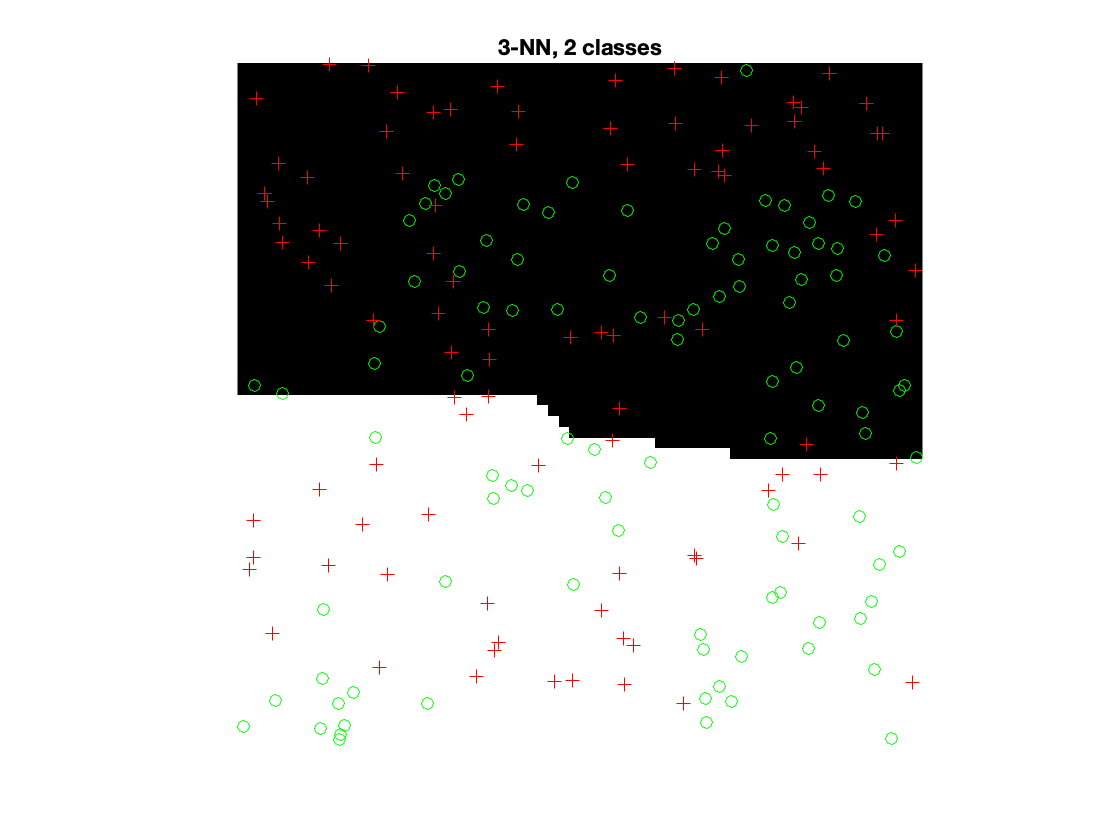
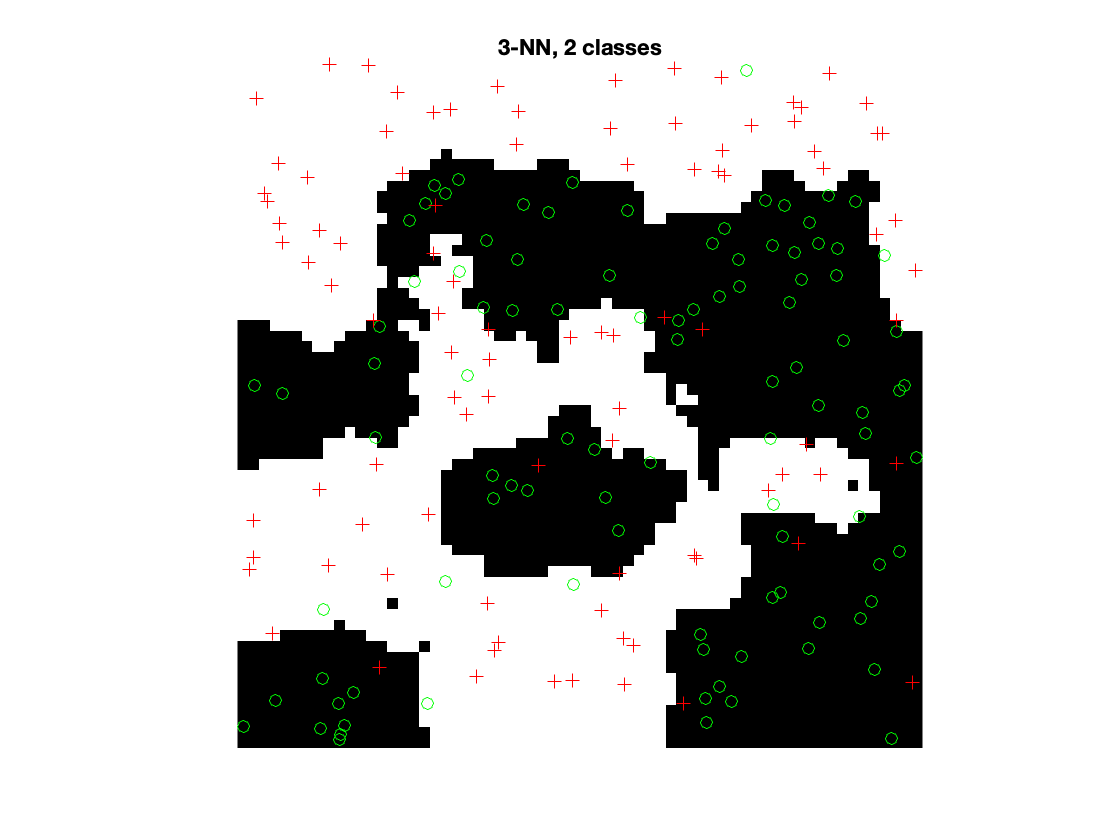
t10, 11, 12 + correction of 7

Changed region(s): [[0.1875, 0.0619, 0.8438, 0.8976], [0.1875, 0.7429, 0.4062, 0.8976], [0.3438, 0.7119, 0.375, 0.7429]]

diff --git a/Assignment 1/Lisa/Task_12/script12.m b/Assignment 1/Lisa/Task_12/script12.m
@@ -1,0 +1,133 @@
+data = load('kmeans1.mat').kmeans1;
+cluster_centers = kmeans(data, 8, 1);
+plot_clusters(data, cluster_centers);
+close;
+
+
+data = load('checkerboard.mat').checkerboard;
+n_runs = 20;
+k = 100;
+
+[mean_q_err, std_q_err, q_err] = n_runs_kmeans(data, k, n_runs, 0);
+[mean_q_err_plus, std_q_err_plus, q_err_plus] = n_runs_kmeans(data, k, n_runs, 1);
+[h, p] = ttest2(q_err, q_err_plus);
+[ mean_q_err, std_q_err ]
+[ mean_q_err_plus, std_q_err_plus ]
+[h, p]
+
+
+function [mean_q_err, std_q_err, q_err] = n_runs_kmeans(data, k, n_runs, kmeans_plus)
+    q_err = zeros(1, n_runs);
+    for n_run = 1:n_runs
+        n_run
+        cluster_centers = kmeans(data, k, kmeans_plus);
+        q_err(n_run) = quantization_error(data, cluster_centers);
+    end
+    
+    mean_q_err = mean(q_err);
+    std_q_err = std(q_err);
+end
+
+function plot_clusters(data, cluster_centers)
+    distances = zeros(1, length(cluster_centers) );
+    cluster_idx_data = zeros(1, length(data));
+    cluster_idx_data = assign_clusters(cluster_centers, data, cluster_idx_data, distances);
+    for cluster_idx = 1:length(cluster_centers)
+        txt = ['Class ',num2str(cluster_idx) ];
+        cluster_data = data(cluster_idx_data == cluster_idx,: );
+        scatter( cluster_data(:,1), cluster_data(:, 2), 'fill', 'DisplayName',txt );
+        xlabel('Feature 1');
+        ylabel('Feature 2');
+        hold on
+
+    end
+    legend show
+end
+
+function centroids =  kmeans(data, k, kmeans_extension)
+    [ data, centroids ] = get_centroids(data, k, kmeans_extension);
+    prev_centroids = zeros( length(centroids), length( centroids(1,:) ) ) ;
+    distances = zeros(1, length(centroids) );
+    cluster_idx_data = zeros(1, length(data));
+    runs = 0;
+    while prev_centroids ~= centroids
+        runs = runs + 1;
+        prev_centroids = centroids;
+        cluster_idx_data = assign_clusters(centroids, data, cluster_idx_data, distances);
+        for centr_idx = 1:length(centroids)
+            centroid_data = data(cluster_idx_data == centr_idx,: );
+            centroids(centr_idx,:) = mean(centroid_data);
+        end
+    end
+end
+
+function cluster_idx_data = assign_clusters(centroids, data, cluster_idx_data, distances)
+    for data_idx = 1:length(data)
+        for centr_idx = 1:length(centroids)
+            distances(centr_idx) = pdist([centroids(centr_idx, :); data(data_idx, :)]);
+        end
+        [~, centr_idx] = min(distances);
+        cluster_idx_data(data_idx) = centr_idx;
+    end
+end
+
+function [data, centroids] = get_centroids(data, k, kmeans_extension)
+    if kmeans_extension == 1
+        [ data, centroids ] = kmeans_plus_init(data, k);
+    else
+        centroids_indices = datasample( [ 1:length(data) ], k );
+        centroids = data(centroids_indices, :);
+        data(centroids_indices,:) = [];
+    end
+end
+
+function [data, centroids] = kmeans_plus_init(data, k)
+    for i = 1:k
+       if i == 1
+           new_centroid_idx = datasample( [ 1:length(data) ], 1);
+           centroids = data(new_centroid_idx, :); 
+           data(new_centroid_idx, :) = [];
+       else
+           all_dists = zeros(1, length(data) );
+           for data_idx = 1:length(data)
+               distances = zeros(1, length(centroids) );
+               if length(centroids(1,:)) ~= 1
+                   for centr_idx = 1:length(centroids)
+                       if i <= 2
+                           distances(centr_idx) = pdist([centroids; data(data_idx, :)] );
+                       else
+                           distances(centr_idx) = pdist([centroids(centr_idx, :); data(data_idx, :) ] );
+                       end
+                   end
+                   [min_dist, ~] = min(distances);
+               else
+                   min_dist = pdist([centroids; data(data_idx, :) ] );
+               end
+               all_dists(data_idx) = min_dist;
+           end
+           sum_dists = sum(all_dists.^ 2);
+           probs = all_dists / sum_dists;
+           [~, max_idx] = max(probs);
+           centroids = [centroids; data(max_idx,:) ];
+           data(max_idx, :) = [];
+       end
+    end
+end
+
+% only for cases where k > 1
+function q_err = quantization_error(data, centroids)
+    all_dists = zeros(1, length(data));
+    for data_idx = 1:length(data)
+       distances = zeros(1, length(centroids) );
+       for centr_idx = 1:length(centroids)
+           distances(centr_idx) = pdist([centroids(centr_idx, :); data(data_idx, :) ] );
+       end
+       [min_dist, ~] = min(distances);
+       all_dists(data_idx) = min_dist;
+    end
+    q_err = sum(all_dists.^ 2);
+end
+
+
+   
+

diff --git a/Assignment 1/Lisa/Task_10/script10_p1.m b/Assignment 1/Lisa/Task_10/script10_p1.m
@@ -1,9 +1,7 @@
 I = imread('cameraman.tif');
-t = graythresh(I);
-BW = imbinarize(I,t);
-imshow(BW);
+imshow(I);
 
-BW1 = edge(BW,'Canny');
+BW1 = edge(I,'Canny');
 imshow(BW1);
 close
 [H,T,R] = hough(BW1);
@@ -13,28 +11,40 @@ imshow(imadjust(H),'XData',T,'YData',R,...
 title('Hough transform of gantrycrane.png');
 xlabel('\theta'), ylabel('\rho');
 close
- 
-peaks = houghpeaks(H, 156); % is already sorted
-P_5 = peaks(1:5,:); 
+
+t = graythresh(H);
+t = t * max(max(H));
+
+for r_idx = 1:length(H)
+    for c_idx = 1:length(H(1,:))
+        if H(r_idx, c_idx) <= t
+            H(r_idx, c_idx) = 0;
+        end    
+    end
+end
+
+peaks = houghpeaks(H, 5); % is already sorted
 
 imshow(H,[],'XData',T,'YData',R,'InitialMagnification','fit');
 xlabel('\theta'), ylabel('\rho');
 axis on, axis normal, hold on; 
-plot(T(P_5(:,2)),R(P_5(:,1)),'s','color','red');
+plot(T(peaks(:,2)),R(peaks(:,1)),'s','color','red');
 close
 
-lined_img = myhoughlines(I, R(P_5(2,1)), T(P_5(2, 2)));
-%imshow(lined_img);
+myhoughlines(I, R(peaks(2,1)), T(peaks(2, 2)));
 
-function new_img = myhoughlines(img, rho, theta)
-    x_coor = rho * cosd(theta);
-    y_coor = rho * sind(theta);
-    line_slope = -1/tand(theta); % -1/perpendicular slope
-    b = y_coor - x_coor * line_slope;
-    x = [1:length(img(1,:))];
-    y = round(line_slope * x + b);
-    imshow(img)
+function myhoughlines(image, rho, theta)
+    figure
+    imshow(image)
     hold on
-    plot([x(1) x(length(x))],[y(length(y)) y(1)],'Color','r','LineWidth',2)      
+    if theta ~= 0
+        x = 1:size(image,1);
+        y = -(cosd(theta)/sind(theta))*x + (rho/sind(theta));
+    else
+        x = rho * ones(size(image,1),1);
+        y = 1:size(image,1);
+    end
+    plot(x,y,'LineWidth',2)
+    axis on
 end
 

diff --git a/Assignment 1/Lisa/Task7/script7.m b/Assignment 1/Lisa/Task7/script7.m
@@ -1,19 +1,18 @@
 data_A = load('data_lvq_A.mat').('matA');
 data_B = load('data_lvq_B.mat').('matB');
 
-data_A_f1 = data_A(:,1) / var(data_A(:,1));
-data_A_f2 = data_A(:,2) / var(data_A(:,2));
-data_B_f1 = data_B(:,1) / var(data_B(:,1));
-data_B_f2 = data_B(:,2) / var(data_B(:,2));
+data_A_f1 = data_A(:,1);
+data_A_f2 = data_A(:,2);
+data_B_f1 = data_B(:,1);
+data_B_f2 = data_B(:,2);
 
-scatter(data_A_f1,data_A_f2,'filled');
+scatter(data_A_f1,data_A_f2);
 hold on
-scatter(data_B_f1,data_B_f2, 'filled');
+scatter(data_B_f1,data_B_f2);
 
 xlabel('Feature 1'); 
 ylabel('Feature 2');
 legend('A', 'B')
-hold on
 
 
 %%% LVQ
@@ -24,9 +23,8 @@ data = [data_A; data_B];
 data_labels = zeros(1, length(data));
 data_labels(length(data_A) + 1: length(data_labels)) = 1;
 
-
 % prototype initialisation
-n_class_A = 1;
+n_class_A = 2;
 n_class_B = 1;
 [init_protos, label_protos] = init(n_class_A, n_class_B, data_A, data_B);
 % LVQ
@@ -37,9 +35,10 @@ scatter(prototypes(:,1), prototypes(:,2), 'filled')
 legend('A', 'B', 'Prototypes')
 
 % plot train error
-%plot(train_error)
-%xlabel('Number of eopchs'); 
-%ylabel('Training error');
+% close
+% plot(train_error)
+% xlabel('Number of eopchs'); 
+% ylabel('Training error');
 
 % kfold cv 
 

diff --git a/Assignment 1/Lisa/Task_10/script10_p3.m b/Assignment 1/Lisa/Task_10/script10_p3.m
@@ -24,9 +24,9 @@ xlabel('\theta'), ylabel('\rho');
 close
 
 black_img = zeros(50, 50);
-black_img(25,25) = 255;
+black_img(25,23) = 255;
 black_img(25,26) = 255;
-black_img(25, 27) = 255;
+black_img(25, 29) = 255;
 imshow(black_img);
 
 [H,T,R] = hough(black_img);
@@ -46,7 +46,7 @@ axis on, axis normal, hold on;
 plot(T(max_peak(2)),R(max_peak(1)),'s','color','red');
 close
 
-lines = houghlines(black_img,T,R,peaks);
+lines = houghlines(black_img,T,R,peaks, 'FillGap',3,'MinLength',1);
 imshow(black_img), hold on
 max_len = 0;
 lines
@@ -54,6 +54,6 @@ lines
 for k = 1:length(lines)
    xy = [lines(k).point1; lines(k).point2];
    xy
-   plot(xy(:,1),xy(:,2),'LineWidth',10,'Color','red');
+   plot(xy(:,1),xy(:,2),'LineWidth',1,'Color','red');
 end
 

diff --git a/Assignment 1/Lisa/Task_11/KNN.m b/Assignment 1/Lisa/Task_11/KNN.m
@@ -3,13 +3,13 @@ function class = KNN(new_point, K, data, class_labels)
     for idx = 1:length(data)
         distances(idx) = pdist([new_point; data(idx,:)], 'euclidean');
     end
-    [~, max_idx] = maxk(distances, K); % is already sorted
+
+    [~, max_idx] = mink(distances, K); % is already sorted
     classes = unique(class_labels);
     counts = zeros(length(classes), 2);
     for idx = 1:length(counts)
         counts(idx, 1) = classes(idx);
     end
-
 
     if K == 1
         class = class_labels(max_idx);

diff --git a/Assignment 1/Lisa/Task_10/script10_p4.m b/Assignment 1/Lisa/Task_10/script10_p4.m
@@ -1,0 +1,12 @@
+img = im2double(imread("HeadTool0002.bmp"));
+img_contrasted = adapthisteq(img);
+imshow(img_contrasted);
+
+
+[centers, radii, metric] = imfindcircles(img_contrasted, [20 40], 'Sensitivity', 0.9);
+viscircles(centers, radii,'EdgeColor','b');
+close;
+imshow(img_contrasted);
+viscircles(centers(1:2, :), radii(1:2, :),'EdgeColor','b');
+peaks = metric(1:2)
+

diff --git a/Assignment 1/Lisa/Task_11/knn_wrapper.m b/Assignment 1/Lisa/Task_11/knn_wrapper.m
@@ -4,7 +4,7 @@ load task_11.mat;
 K=7;
 samples=64;
 data = lab3_2;
-nr_of_classes = 2;
+nr_of_classes = 4;
 
 % Class labels
 class_labels = floor( (0:length(data)-1) * nr_of_classes / length(data) );

diff --git a/Assignment 1/Lisa/Task_11/script11.m b/Assignment 1/Lisa/Task_11/script11.m
@@ -3,7 +3,7 @@ load task_11.mat;
 
 K=7;
 data = lab3_2;
-nr_of_classes = 4;
+nr_of_classes = 2;
 
 % Class labels
 class_labels = floor( (0:length(data)-1) * nr_of_classes / length(data) );
